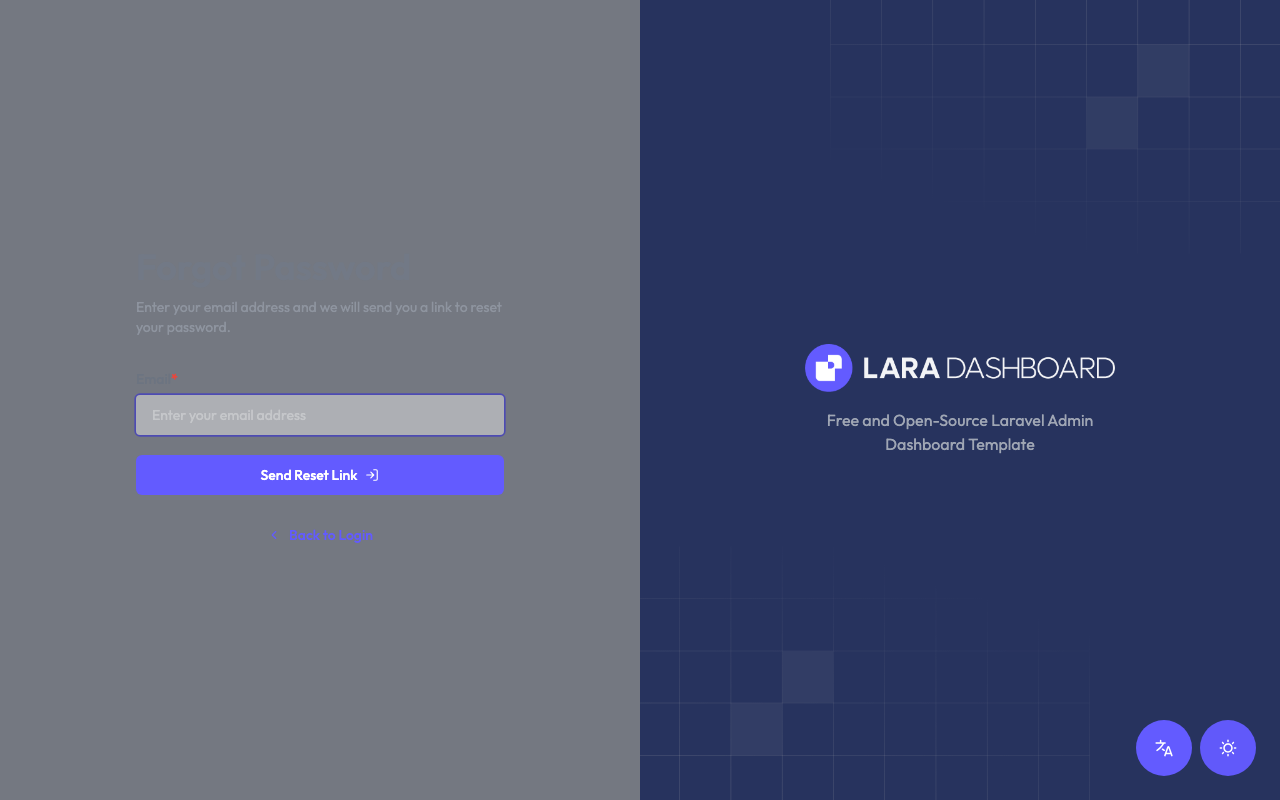
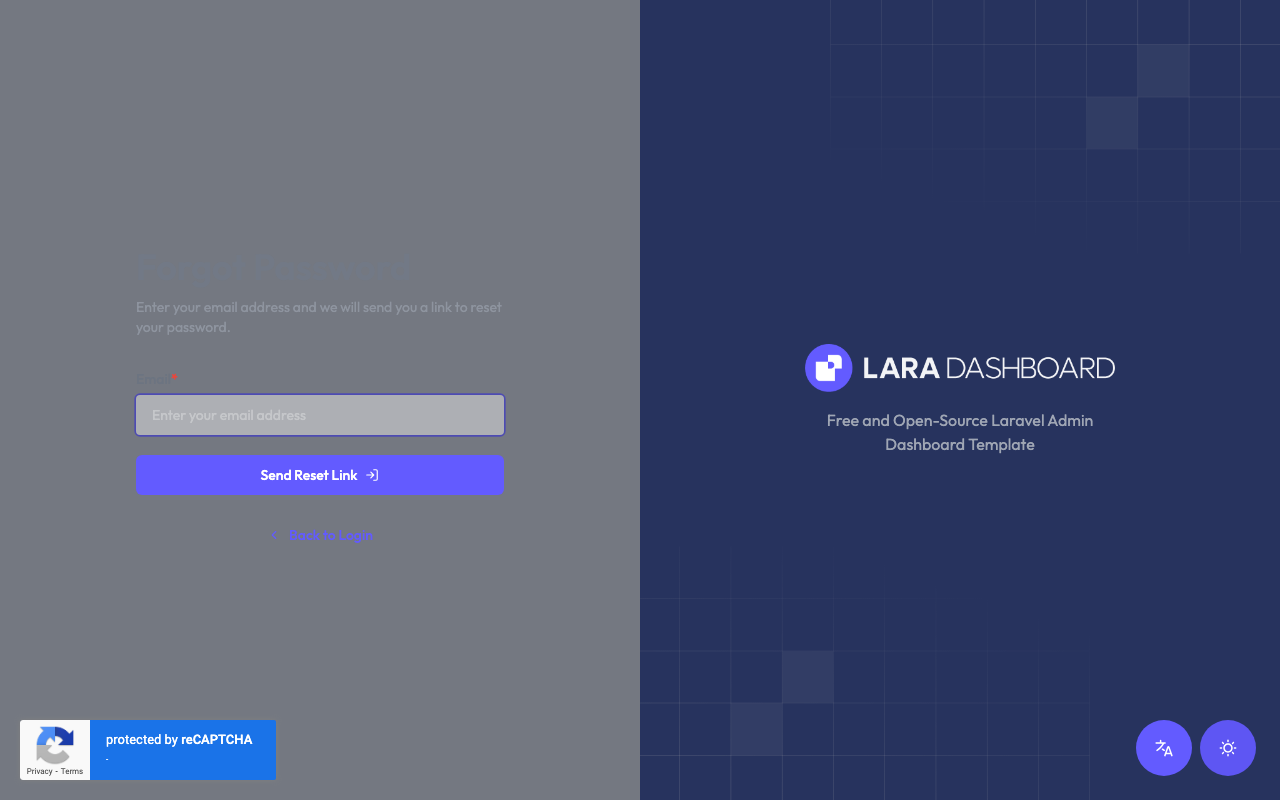
feat: updated screenshots and prepare release

Changed region(s): [[0.0, 0.875, 0.2188, 1.0]]

diff --git a/app/Console/Commands/GenerateScreenshots.php b/app/Console/Commands/GenerateScreenshots.php
@@ -275,6 +275,11 @@ class GenerateScreenshots extends Command
                 'url' => '/admin/settings?tab=integrations',
                 'mode' => 'lite',
             ],
+            [
+                'name' => '44-Settings-Performance-Security',
+                'url' => '/admin/settings?tab=performance-security',
+                'mode' => 'lite',
+            ],
 
             // Translation pages
             [

diff --git a/README.md b/README.md
@@ -49,6 +49,14 @@ password - 12345678
 
 ## 📝 Changelog
 
+**[v2.2.0] - 2025-08-17**
+
+-   **Feat:** Media library manager.
+-   **Feat:** Improved user / profile UI/UX with lots of options.
+-   **Feat:** Implement reCAPTCHA and custom admin login integration with configurable page settings.
+-   **Enhancement:** Update menu structure.
+-   **Fix:** Several small UI bugs.
+
 **[v2.0.1] - 2025-07-27**
 
 -   **Feat:** Refactor Lara Dashboard whole Admin UI - Icons, Accessibility, Components, Pages, Layouts and so on.
@@ -515,6 +523,12 @@ Visit the [Laravel Boost documentation](https://github.com/laravel/boost).
     <td width="50%">
       <strong>Integration Settings</strong><br/>
       <img width="100%" alt="Integration Settings" src="/demo-screenshots/43-Settings-Integration.png"/>
+    </td>
+  </tr>
+  <tr>
+    <td width="50%">
+      <strong>Performance & Security Settings</strong><br/>
+      <img width="100%" alt="Performance & Security Settings" src="/demo-screenshots/44-Settings-Performance-Security.png"/>
     </td>
   </tr>
 </table>
